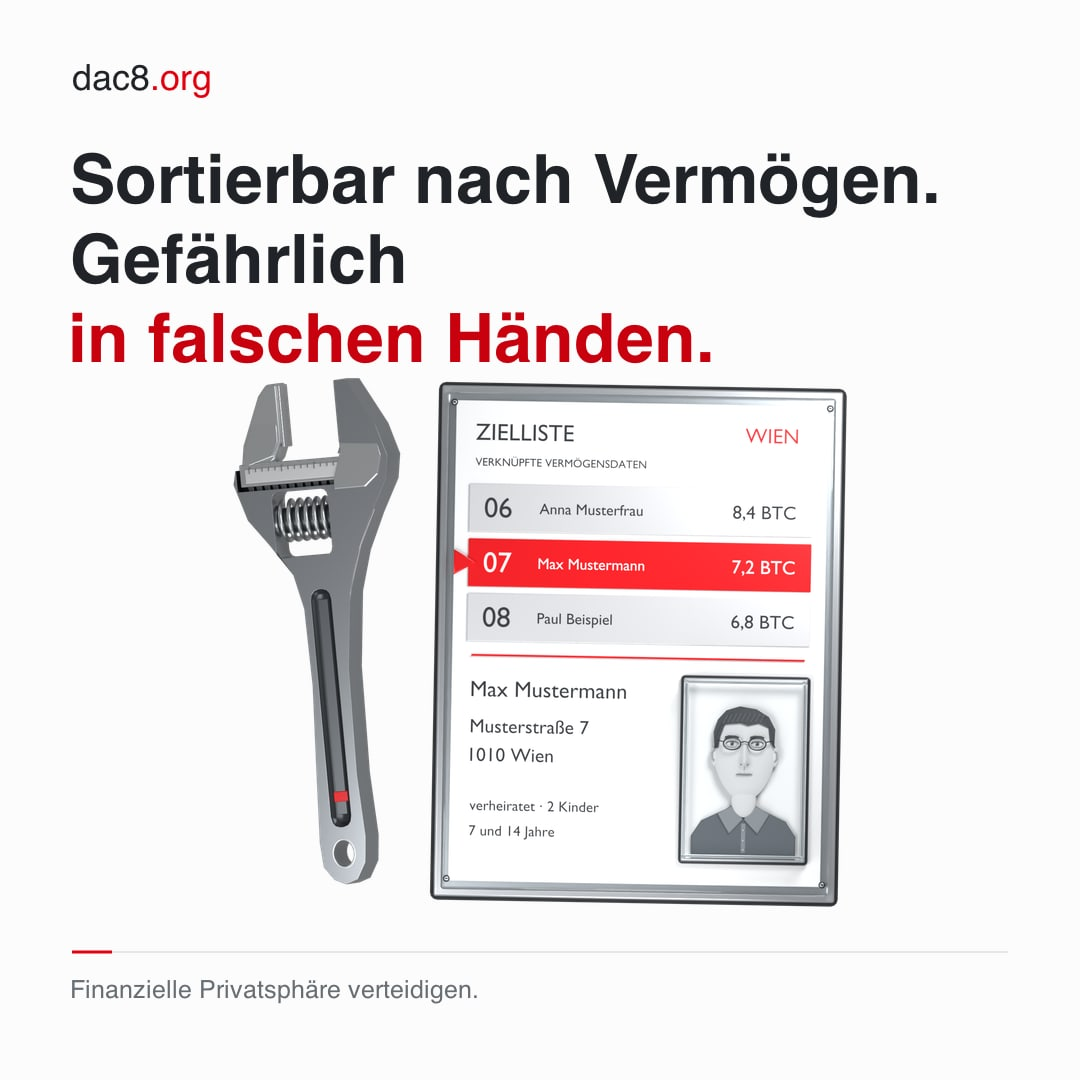
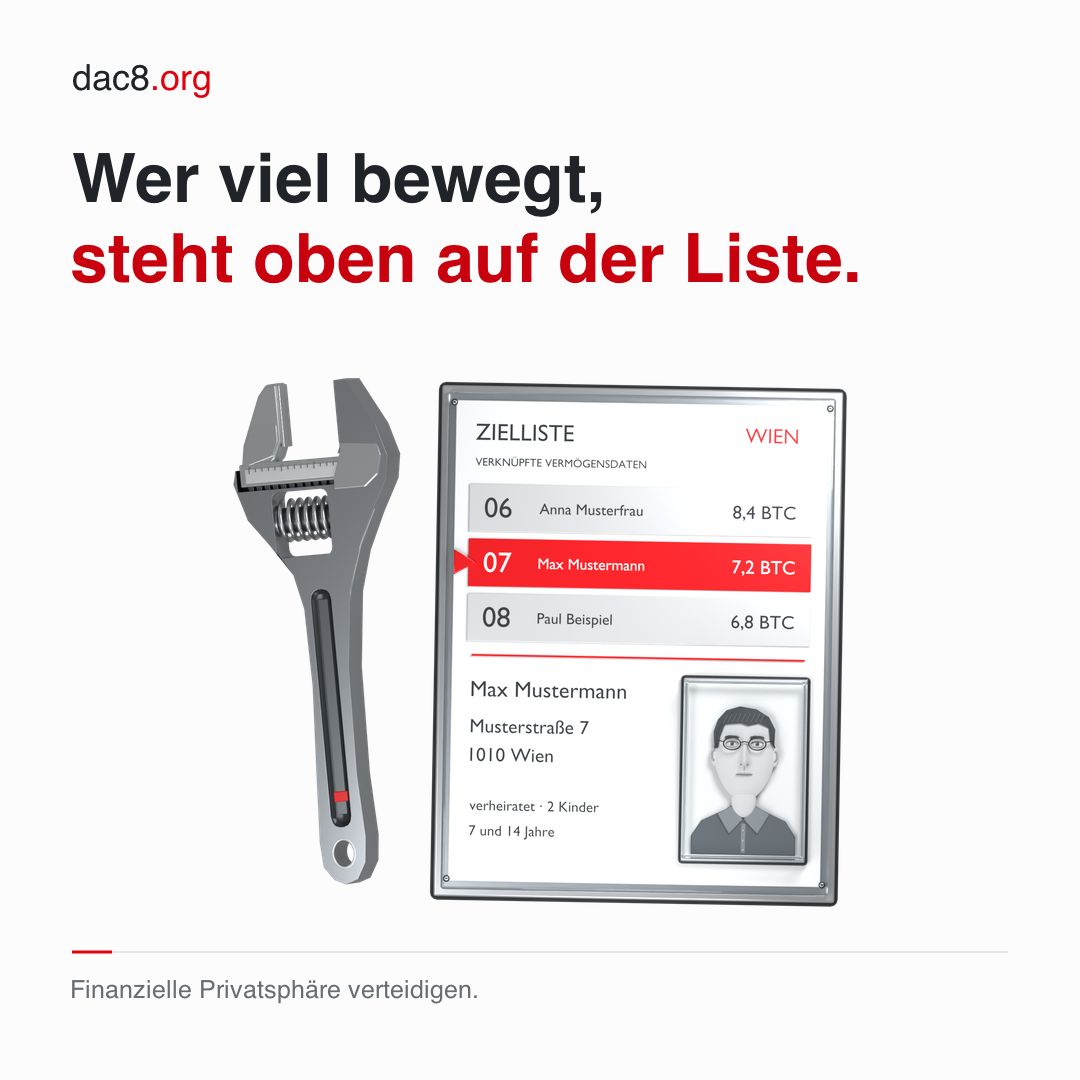
Sharpen the share headlines and cut story texts to one fact
A shared graphic gets a few seconds of attention, and the square carries
only its headline. Four headlines asked a question or stayed abstract
("Was wird gemeldet?", "Ein Datenleck. Persönliche Folgen."), and the
story texts ran to two or three explanatory sentences.

The report, leak, ranking and profile scenes get headlines that state
the point ("Gespeichert. Gehackt. Verkauft.", "Wer viel bewegt, steht
oben auf der Liste."), rendered in the lab's share-kit layout from its
cutouts and fonts. Every story text is now one or two short sentences
with one concrete fact. The home page scenes take the same titles.

Changed region(s): [[0.0611, 0.1222, 0.8556, 0.3361]]

diff --git a/src/data/share.ts b/src/data/share.ts
@@ -2,14 +2,15 @@ import type { Language } from "@/lib/i18n"
 
 type Text = Record<Language, string>
 
-// Ready-made social graphics from the artwork lab's share kit
+// Ready-made social graphics in the artwork lab's share-kit layout
 // (knowledge/share-kit/{de,en}/scene-*/{square,story}.png). They follow the
 // home page story and the legal route. The squares are exported as JPEG to
 // public/share/. The stories are exported to src/assets/share/ and get `text`
 // (and an optional `note`) set into the free space at build time
 // (src/pages/share/[language]/[scene]-story.jpg.ts), so a story works as a
-// post on its own. The text restates the home page scenes; change both
-// together.
+// post on its own. Titles match the home page scenes; change both together.
+// A story gets a few seconds of attention: the title carries the point, the
+// text adds one concrete fact in one or two short sentences.
 export const shareScenes: {
   id: string
   title: Text
@@ -23,8 +24,8 @@ export const shareScenes: {
       en: "Your account becomes a file.",
     },
     text: {
-      de: "Du kaufst Kryptowerte bei einer Börse oder einem Broker in Österreich. Seit 2026 bereitet der Anbieter daraus jedes Jahr deine Identität und Jahreswerte für das Finanzamt auf.",
-      en: "You buy crypto-assets from an exchange or broker in Austria. Since 2026, the provider has been preparing your identity and annual aggregates for the tax authority every year.",
+      de: "Seit 2026 hält deine Börse jedes Jahr fürs Finanzamt fest, wer du bist und wie viel du kaufst, verkaufst und tauschst.",
+      en: "Since 2026, your exchange has recorded every year for the tax office who you are and how much you buy, sell and swap.",
     },
   },
   {
@@ -34,16 +35,19 @@ export const shareScenes: {
       en: "Everyone recorded. Without suspicion.",
     },
     text: {
-      de: "Der Anbieter muss die Meldedaten für alle Kunden aufbereiten, auch für jene, die am Ende gar nicht gemeldet werden. Das verlangt das österreichische Gesetz, über die EU-Richtlinie hinaus.",
-      en: "Providers must prepare reporting data for all customers, including those who will not ultimately be reported. Austrian law requires this, going beyond the EU directive.",
+      de: "Aufbereitet werden die Daten aller Kunden, auch wenn sie nie gemeldet werden. Österreich geht damit über die EU hinaus.",
+      en: "Data on every customer is prepared, even if it is never reported. Austria goes further than the EU requires.",
     },
   },
   {
     id: "scene-03-report",
-    title: { de: "Was wird gemeldet?", en: "What gets reported?" },
+    title: {
+      de: "Jeder Kauf. Jeder Tausch. Gezählt fürs Finanzamt.",
+      en: "Every purchase. Every swap. Counted for the tax office.",
+    },
     text: {
-      de: "Name, Anschrift, Steuerwohnsitz, Steuernummer und Geburtsdatum. Dazu je Kryptowert der Wert in Euro und die Stückzahl: wie viel du im Jahr kaufst, verkaufst, tauschst und auf eigene Wallets überträgst.",
-      en: "Name, address, tax residence, tax number and date of birth. Plus the value in euros and the units for each crypto-asset: how much you buy, sell, exchange and transfer to your own wallets in a year.",
+      de: "Name, Anschrift, Steuernummer und für jeden Kryptowert, wie viel du gekauft, verkauft, getauscht und übertragen hast.",
+      en: "Name, address, tax number and, for each crypto-asset, how much you bought, sold, swapped and transferred.",
     },
   },
   {
@@ -53,42 +57,42 @@ export const shareScenes: {
       en: "More about you. Every year.",
     },
     text: {
-      de: "Jedes Jahr kommt eine Meldung dazu, und der Anbieter hebt jede zehn Jahre auf. Bei ihm liegen außerdem dein Ausweis, deine Wallet-Adressen und jede einzelne Transaktion.",
-      en: "Every year adds another report, and the provider keeps each one for ten years. It also holds your ID, your wallet addresses and every single transaction.",
+      de: "Jedes Jahr kommt eine Meldung dazu. Der Anbieter hebt jede zehn Jahre auf, neben deinem Ausweis und deinen Wallet-Adressen.",
+      en: "Every year adds a report. Your provider keeps each one for ten years, next to your ID and your wallet addresses.",
     },
   },
   {
     id: "scene-05-leak",
     title: {
-      de: "Ein Datenleck. Persönliche Folgen.",
-      en: "A data leak. Personal consequences.",
+      de: "Gespeichert. Gehackt. Verkauft.",
+      en: "Stored. Hacked. Sold.",
     },
     text: {
-      de: "Je mehr an einer Stelle liegt und je länger es dort bleibt, desto lohnender ist der Einbruch. Börsen, Identifizierungsdienste und Finanzverwaltungen haben solche Daten schon verloren.",
-      en: "The more data sits in one place, and the longer it stays there, the more a break-in pays. Exchanges, identity verification services and tax administrations have already lost such data.",
+      de: "Ledger, Coinbase, Frankreichs Finanzverwaltung: Alle haben Kundendaten verloren, an Hacker oder an bestochene Mitarbeiter.",
+      en: "Ledger, Coinbase, France’s tax administration: all have lost customer data, to hackers or to bribed staff.",
     },
   },
   {
     // Numbered after the first eight so existing share URLs stay the same.
     id: "scene-09-profile",
     title: {
-      de: "Vier Datenquellen. Ein Personenprofil.",
-      en: "Four data sources. One personal profile.",
+      de: "Jedes Leck macht dein Profil genauer.",
+      en: "Every leak sharpens your profile.",
     },
     text: {
-      de: "Ein öffentliches Profil zeigt dein Gesicht, ein Leck deine Wallet-Adresse, ein gehackter Steuerdienst deine Bestände. Zusammengeführt ergibt das, wer du bist, wo du wohnst und was du vermutlich besitzt.",
-      en: "A public profile shows your face, a leak your wallet address, a hacked tax service your holdings. Put together, they reveal who you are, where you live and what you probably own.",
+      de: "Gesicht aus dem Netz, Wallet aus einem Leck, Bestände vom Steuerdienst. Zusammen: wer du bist, wo du wohnst, was du vermutlich hast.",
+      en: "Your face from the web, your wallet from a leak, your holdings from a tax service. Together: who you are, where you live, what you probably own.",
     },
   },
   {
     id: "scene-06-risk",
     title: {
-      de: "Sortierbar nach Vermögen. Gefährlich in falschen Händen.",
-      en: "Sortable by wealth. Dangerous in the wrong hands.",
+      de: "Wer viel bewegt, steht oben auf der Liste.",
+      en: "The more you move, the higher you rank.",
     },
     text: {
-      de: "In Österreich verschicken Betrüger massenhaft gefälschte FinanzOnline-Nachrichten, um herauszufinden, wer Kryptowerte besitzt. Ein Leck beim Anbieter würde ihnen diese Liste fertig liefern.",
-      en: "In Austria, fraudsters send fake tax-office messages in bulk to find out who holds crypto. A breach at a provider would hand them that list ready-made.",
+      de: "Betrüger suchen in Österreich schon per gefälschter FinanzOnline-SMS nach Krypto-Besitzern. Ein Leck beim Anbieter wäre die fertige Liste.",
+      en: "In Austria, fraudsters already hunt for crypto holders with fake tax-office texts. A breach at a provider would be the finished list.",
     },
   },
   {
@@ -98,8 +102,8 @@ export const shareScenes: {
       en: "Your profile. Your address. A target.",
     },
     text: {
-      de: "Dahinter steht organisierte Kriminalität. In den USA hackte eine Bande Datenbanken, suchte Menschen mit vermuteten Kryptobeständen heraus und brach bei ihnen ein.",
-      en: "This is organised crime. In the United States, a gang hacked databases, picked out people believed to hold crypto and broke into their homes.",
+      de: "Eine US-Bande hackte Datenbanken, suchte vermeintlich reiche Krypto-Besitzer heraus und brach bei ihnen ein. Beute insgesamt: über 250 Millionen Dollar.",
+      en: "A US gang hacked databases, picked out people believed to be rich in crypto and broke into their homes. Total haul: over 250 million dollars.",
     },
   },
   {
@@ -108,8 +112,8 @@ export const shareScenes: {
     id: "scene-07-route",
     title: { de: "Datensammlung anfechten.", en: "Challenge data collection." },
     text: {
-      de: "Wir sind überzeugt, dass die anlasslose Erfassung aller Kunden gegen Grundrechte verstößt. Bitcoin Austria bereitet ein Verfahren bei der Datenschutzbehörde vor, mit dem Ziel einer Klärung bis vor den Europäischen Gerichtshof.",
-      en: "We are convinced that recording every customer without suspicion violates fundamental rights. Bitcoin Austria is preparing proceedings before the Data Protection Authority, aiming for a ruling all the way up to the EU Court of Justice.",
+      de: "Wir bereiten ein Verfahren gegen die anlasslose Erfassung vor. Unser Ziel: die Frage bis vor den Europäischen Gerichtshof bringen.",
+      en: "We are preparing proceedings against recording everyone without suspicion. Our aim: take the question all the way to the EU Court of Justice.",
     },
   },
   {
@@ -119,8 +123,8 @@ export const shareScenes: {
       en: "Together, defend privacy.",
     },
     text: {
-      de: "Mit deiner Spende bezahlen wir das Verfahren. Und schreib deinen Abgeordneten: Der Nationalrat kann das Gesetz ändern. Alles dazu auf dac8.org/mitmachen",
-      en: "Your donation funds the case. And write to your MPs: the Austrian parliament can change the law. Find out how at dac8.org/en/get-involved",
+      de: "Spende für das Verfahren und schreib deinen Abgeordneten. Alles auf dac8.org/mitmachen",
+      en: "Donate to the case and write to your MPs. Everything at dac8.org/en/get-involved",
     },
   },
 ]
